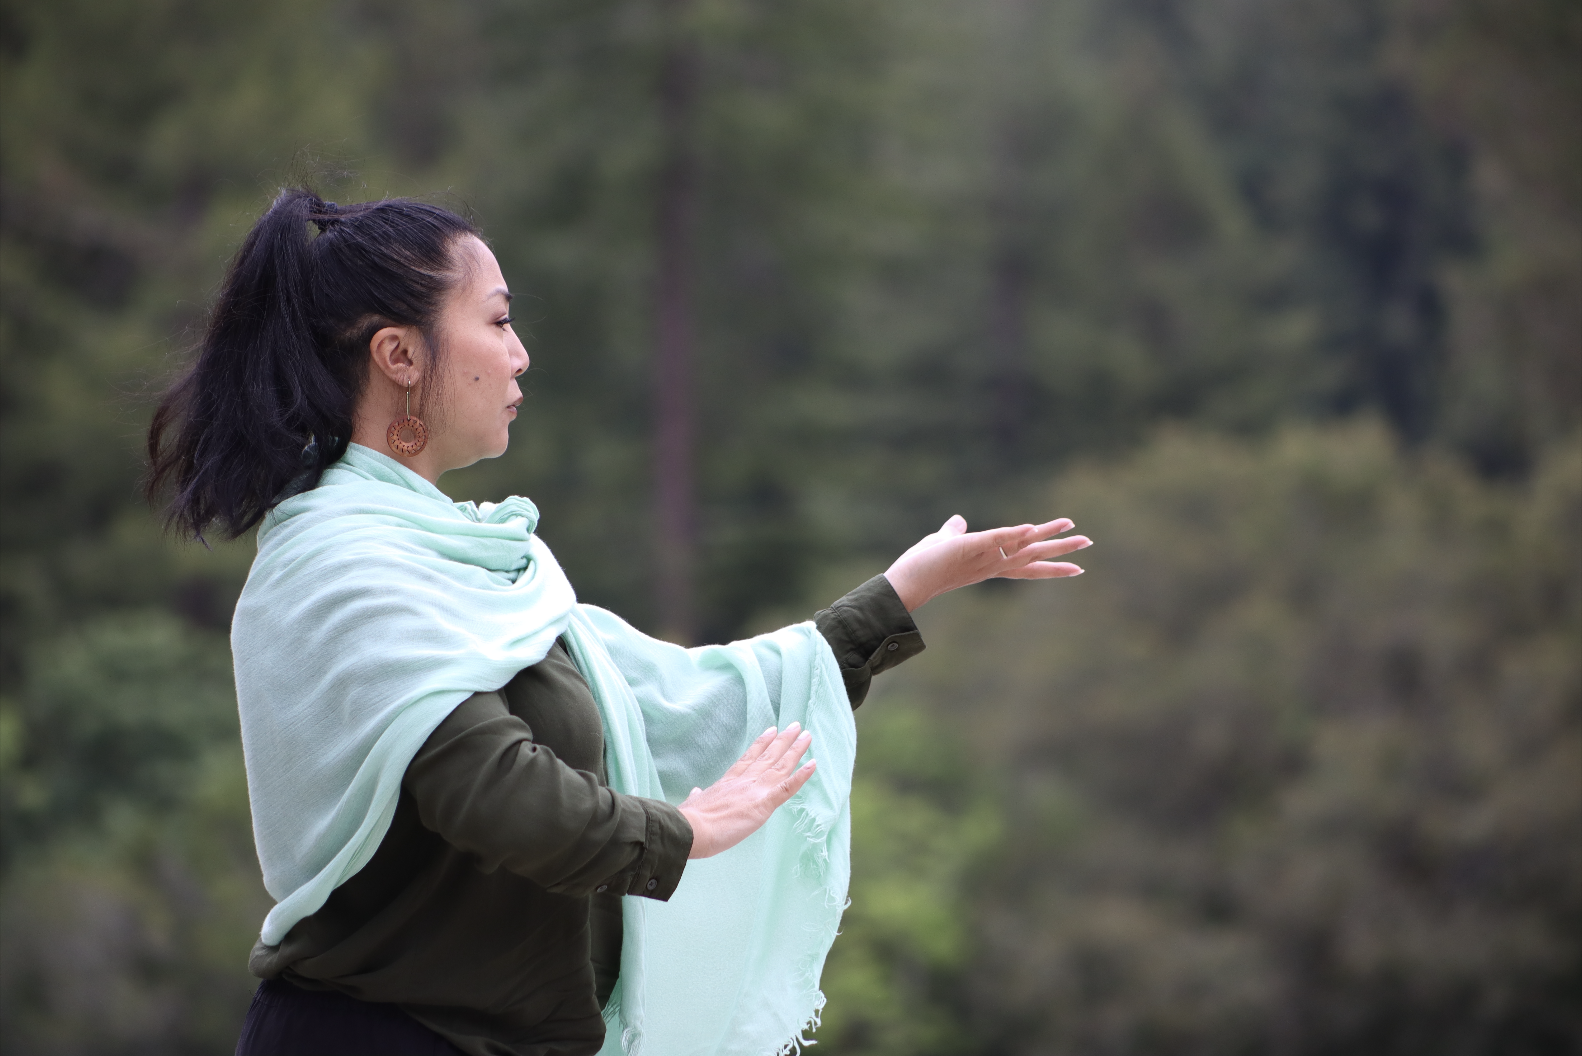
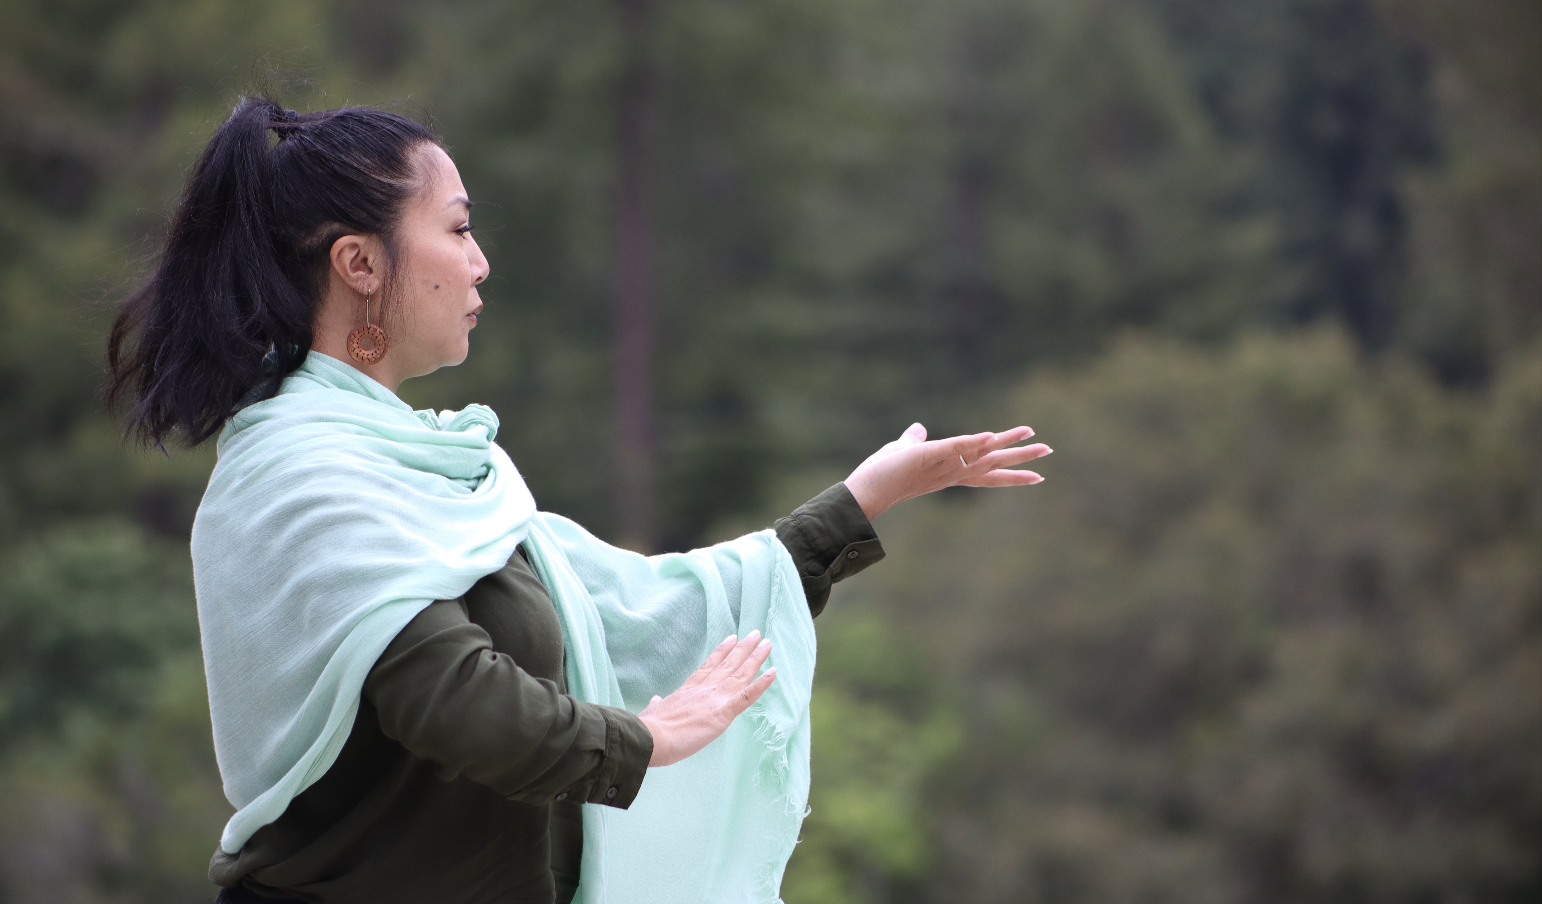
enable responsiveness for image text

diff --git a/index.html b/index.html
@@ -1,3 +1,5 @@
+<!-- serif title, smaller image,  -->
+
 <!DOCTYPE html>
 <html lang="en">
   <head>
@@ -105,11 +107,14 @@
       </div>
     </nav>
 
-    <img
-      src="./images/RobynDeGuzmanPhoto.png"
-      class="img-fluid robyn-tai-chi"
-      alt="Responsive image"
-    />
+    <div class="box">
+      <img
+        src="./images/RobynDeGuzmanPhoto.png"
+        class="img-fluid robyn-tai-chi"
+        alt="Responsive image"
+      />
+      <div class="img-text">Robyn De Guzman</div>
+    </div>
 
     <div id="about" class="container col-xxl-8 px-4 py-5">
       <div class="row flex-lg-row-reverse align-items-center g-5">

diff --git a/style.css b/style.css
@@ -50,3 +50,37 @@ table th {
 .table-container {
   width: 60%; /* Adjust as needed */
 }
+
+/* Bottom left text */
+.img-text {
+  font-size: 90px;
+  color: white;
+  position: absolute;
+  top: 170px;
+  right: 170px;
+  font-family: serif;
+}
+
+@media screen and (max-width: 1300px) {
+  .img-text {
+    font-size: 70px;
+    top: 170px;
+    right: 150px;
+  }
+}
+
+@media screen and (max-width: 1000px) {
+  .img-text {
+    font-size: 50px;
+    top: 70px;
+    right: 75px;
+  }
+}
+
+@media screen and (max-width: 600px) {
+  .img-text {
+    font-size: 30px;
+    top: 80px;
+    right: 50px;
+  }
+}
